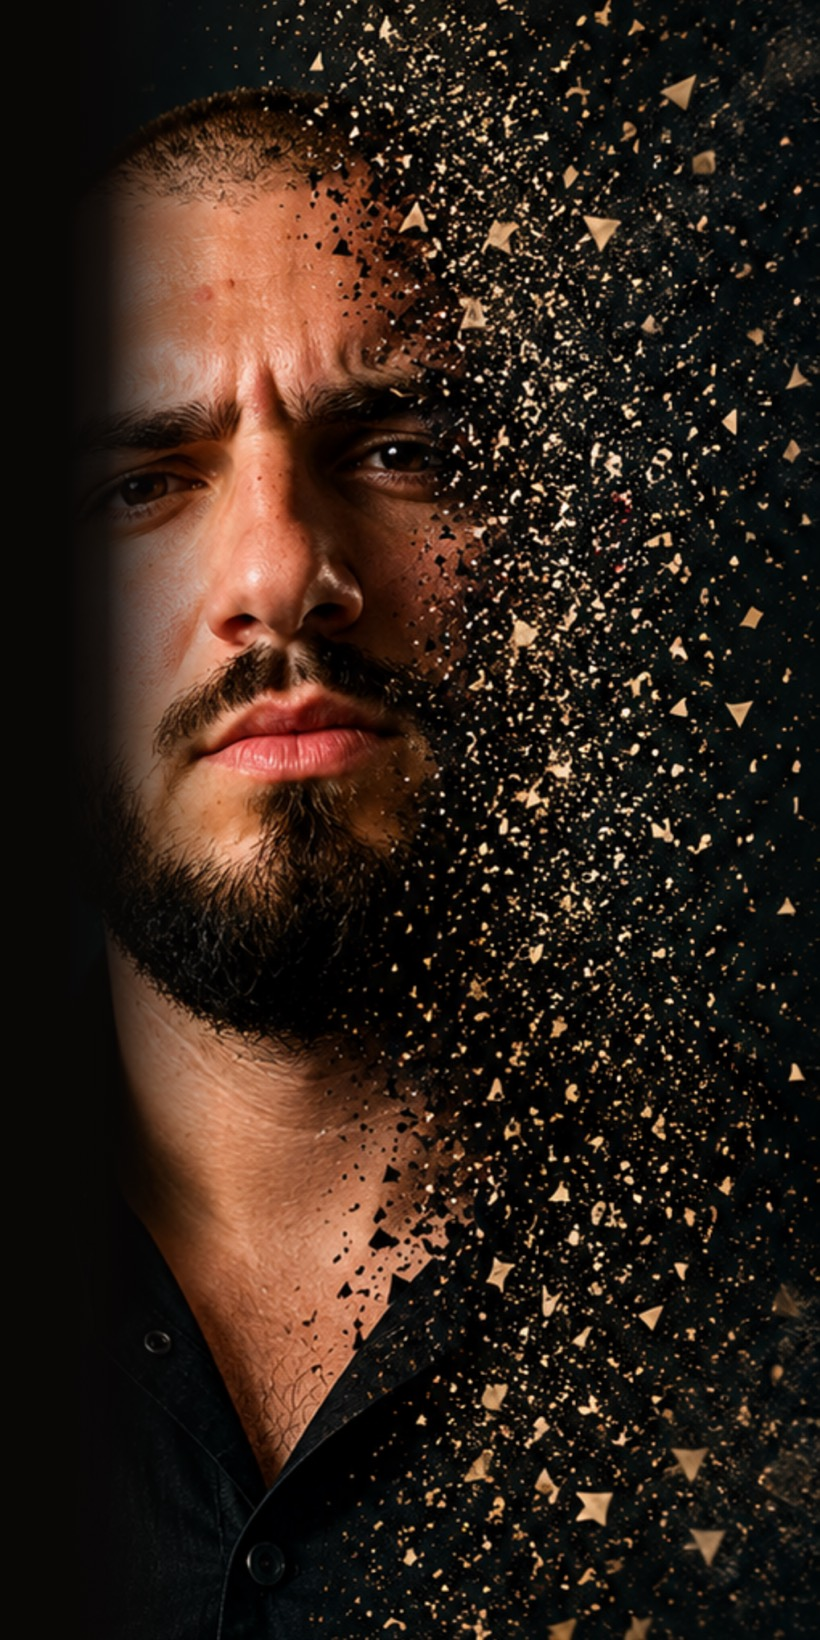
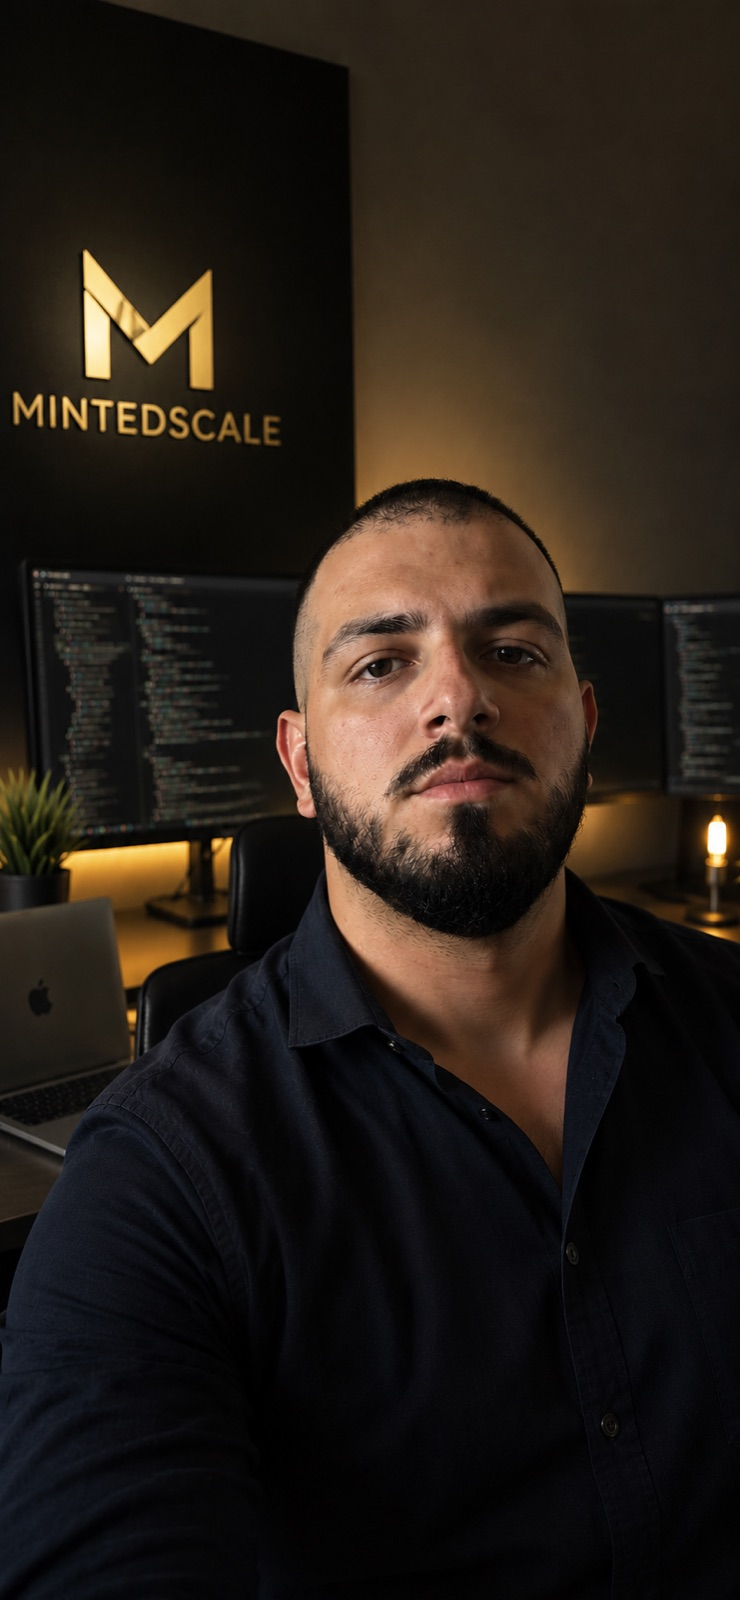
Put the real product and the real desk on the page
Four screens from MintedScale AI now sit under the AI system section, at
half-width each rather than thumbnails — at 300px these read as generic
dark UI and prove nothing; at 560px you can see the stages, the agent
count and the artifacts.

Worth noting what they show: the product's own pipeline is Discover,
Build, Launch, Scale — the same four this page has described all along,
and its Bosnian build uses the same words the translation does. That
alignment is evidence no amount of copy could buy.

The founder photos replace the crop taken out of the ad poster. Both are
the desk scene: the wall sign and the code on the monitors say "I ship
software" more directly than the paragraph beside them. The tall one goes
in the founder band, the landscape one fills the hero, which had been an
empty reserved frame since the beginning.

The hero's earnings card moved down — at the old offset it covered nearly
half the photo, which was fine over a UI recording and not over a face.

VideoFrame takes an `image` now: a still shows only while `heroVideo.src`
is empty, so adding a film later needs no code change.

All six images recompressed from PNG — 5.5MB to 0.9MB. Verified at 390px:
scrollWidth 390, every image loaded, nothing wider than the viewport.

diff --git a/src/components/engine.tsx b/src/components/engine.tsx
@@ -110,6 +110,37 @@ export function Engine({ t }: { t: Dictionary }) {
             </div>
           </div>
         </div>
+
+        {/* Screens from the real product. Bigger than a thumbnail on purpose —
+            at 300px these read as generic dark UI and prove nothing. */}
+        <div className="mt-[clamp(2rem,3.6vw,3rem)]">
+          <p className="ms-mono text-gold-400" data-reveal>
+            {e.shotsLabel}
+          </p>
+
+          <div className="mt-5 grid gap-4 sm:grid-cols-2">
+            {media.engineShots.map((shot, i) => (
+              <figure
+                key={shot.key}
+                data-reveal
+                style={{ "--reveal-delay": `${i * 70}ms` } as React.CSSProperties}
+              >
+                <div className="ms-card ms-gloss overflow-hidden">
+                  {/* eslint-disable-next-line @next/next/no-img-element */}
+                  <img
+                    src={shot.src}
+                    alt={e.shots[i]}
+                    loading="lazy"
+                    className="block h-auto w-full"
+                  />
+                </div>
+                <figcaption className="ms-mono mt-3 text-[0.5rem] normal-case leading-[1.7] tracking-[0.1em]">
+                  {e.shots[i]}
+                </figcaption>
+              </figure>
+            ))}
+          </div>
+        </div>
       </div>
     </section>
   );

diff --git a/src/components/video-frame.tsx b/src/components/video-frame.tsx
@@ -9,6 +9,7 @@ import { useRef, useState } from "react";
  */
 export function VideoFrame({
   src,
+  image,
   poster,
   label,
   duration,
@@ -18,6 +19,8 @@ export function VideoFrame({
   className = "",
 }: {
   src?: string;
+  /** Shown when there is no video yet — a still beats a reserved frame. */
+  image?: string;
   poster?: string;
   label: string;
   duration?: string;
@@ -30,6 +33,15 @@ export function VideoFrame({
   const [playing, setPlaying] = useState(false);
 
   const aspect = ratio === "9/16" ? "aspect-[9/16]" : "aspect-video";
+
+  if (!src && image) {
+    return (
+      <div className={`ms-video ${aspect} ${className}`}>
+        {/* eslint-disable-next-line @next/next/no-img-element */}
+        <img src={image} alt={label} className="absolute inset-0 h-full w-full object-cover" />
+      </div>
+    );
+  }
 
   if (!src) {
     return (

diff --git a/src/lib/config.ts b/src/lib/config.ts
@@ -85,8 +85,17 @@ export const clients = [
 export const media = {
   portrait: { src: "/portrait/anel.jpg" },
 
+  /** Landscape shot of the founder at the desk — fills the hero until a film exists. */
+  heroImage: { src: "/portrait/anel-desk.jpg" },
   heroVideo: { src: "", poster: "" },
   engineVideo: { src: "/engine/engine-demo.mp4", poster: "/engine/engine-demo-poster.jpg" },
+  /** Screens from the real product, shown under the AI system section. */
+  engineShots: [
+    { key: "dashboard", src: "/engine/app-dashboard.jpg" },
+    { key: "plan", src: "/engine/app-plan.jpg" },
+    { key: "agents", src: "/engine/app-agents.jpg" },
+    { key: "tracker", src: "/engine/app-tracker.jpg" },
+  ],
   films: [
     { id: "v1", src: "", poster: "" },
     { id: "v2", src: "", poster: "" },

diff --git a/src/lib/i18n/bs.ts b/src/lib/i18n/bs.ts
@@ -216,6 +216,13 @@ export const bs: Dictionary = {
     videoNote: "Snimak stvarnog proizvoda. Prikazani kreator je primjer, nije klijent.",
     appCaption: "Rezultat analize",
     appNote: "Projekcija na osnovu tvojih brojki — nije zarađen prihod.",
+    shotsLabel: "Unutar proizvoda",
+    shots: [
+      "Pregled — nadzorna ploča kreatora, s očekivanim prihodom kao rasponom i stepenom pouzdanosti",
+      "Plan — devedeset dana kroz iste četiri faze koje ova stranica opisuje",
+      "Agenti — dvadeset osam njih, grupisanih po fazama, svaki daje po jedan rezultat",
+      "Views Tracker — šta vraća jedan agent",
+    ],
     producesLabel: "Rezultat",
     modules: [
       {

diff --git a/src/lib/i18n/en.ts b/src/lib/i18n/en.ts
@@ -209,6 +209,13 @@ export const en = {
     videoNote: "A recording of the real product. The creator shown is sample data.",
     appCaption: "The audit output",
     appNote: "A projection from your own numbers — not revenue earned.",
+    shotsLabel: "Inside the product",
+    shots: [
+      "Deck — the creator's overview, with expected revenue as a range and a confidence figure",
+      "Plan — ninety days in the same four stages this page describes",
+      "Agents — twenty-eight of them, grouped by stage, each producing one artifact",
+      "Views Tracker — what a single agent returns",
+    ],
     producesLabel: "What it produces",
     modules: [
       {

diff --git a/src/components/hero.tsx b/src/components/hero.tsx
@@ -86,11 +86,12 @@ export function Hero({ t }: { t: Dictionary }) {
 
           {/* ── Right: the film, with the number that matters clipped to it ── */}
           <div
-            className="ms-rise relative min-w-0 sm:pb-[clamp(4rem,8vw,6rem)]"
+            className="ms-rise relative min-w-0 sm:pb-[clamp(6.5rem,12vw,9.5rem)]"
             style={{ animationDelay: "560ms" }}
           >
             <VideoFrame
               src={media.heroVideo.src}
+              image={media.heroImage.src}
               poster={media.heroVideo.poster}
               label={h.videoLabel}
               reservedLabel={t.video.reserved}

diff --git a/public/portrait/README.md b/public/portrait/README.md
@@ -1,32 +1,15 @@
-# Founder portrait
+# Founder photos
 
-`anel.jpg` — the photo beside the founder note. Present. Cropped out of the
-ad poster (kept at `design-assets/mintedscale-poster.png`, deliberately outside
-`public/` so it is not served): head, beard and the gold dissolve, 3:4, no
-fragments of the poster's other panels. 840x1120, JPEG at quality 82, 260KB —
-the PNG was 1.3MB, which is not worth it for a photograph on a landing page.
+| File | Where | Shape |
+|---|---|---|
+| `anel.jpg` | founder band, beside the note | tall, ~1:2 |
+| `anel-desk.jpg` | hero, right column | landscape 16:9-ish |
 
-To replace it, drop in another 3:4 crop under the same name.
+Both are the same desk scene — the MintedScale wall sign and code on the
+monitors do more for "I ship software" than the paragraph next to them.
 
-## How this one was made
+Compressed from the PNG originals: 1.7MB and 1.6MB became 150KB and 220KB.
+A landing page should not ship 3MB of photography.
 
-The client only had the finished ad poster, not the photo behind it, so the
-portrait is cropped out of `design-assets/mintedscale-poster.png`.
-
-The poster's layout constrains the crop badly. His face spans x 595-920, but
-the AI agents panel runs to x 651 with text reaching about x 620. So a crop
-wide enough to show his whole face and shoulders necessarily catches panel
-fragments — the first wide attempt showed "...zer" and "...venue" from
-"Income Optimizer / Increase your revenue".
-
-Fix: crop from x 612 and bake a left-edge gradient over the first 8-19% of the
-frame. It buries the panel edge and reads as vignetting rather than a patch.
-
-The result is 1:2, which is why the portrait column is 16rem rather than 22rem
-— at the old width `object-cover` would have cropped the tall frame back to a
-face close-up, which is the framing the client rejected.
-
-**If you can find the original photo**, use it instead. It needs no vignette,
-allows any framing, and this whole workaround disappears.
-
-## What to export
+The hero slot shows `heroImage` only while `heroVideo.src` is empty. Add a
+film and the photo steps aside automatically — no code change.
